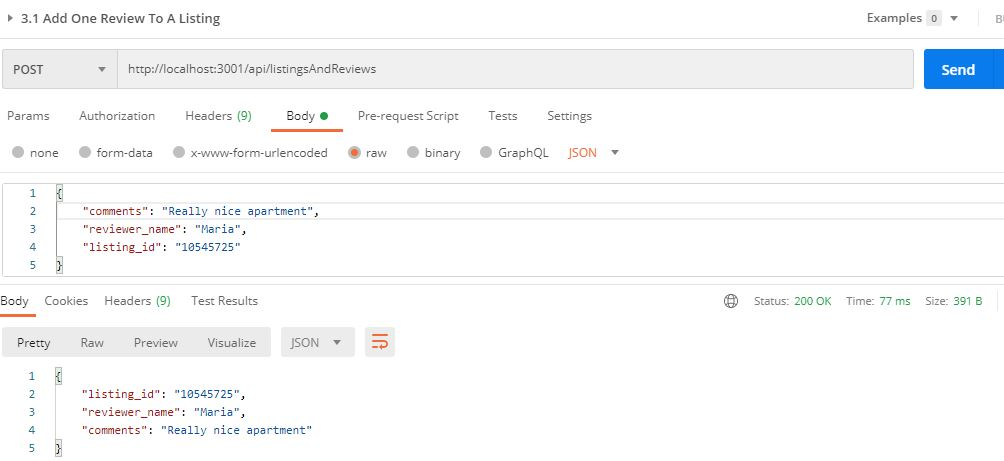
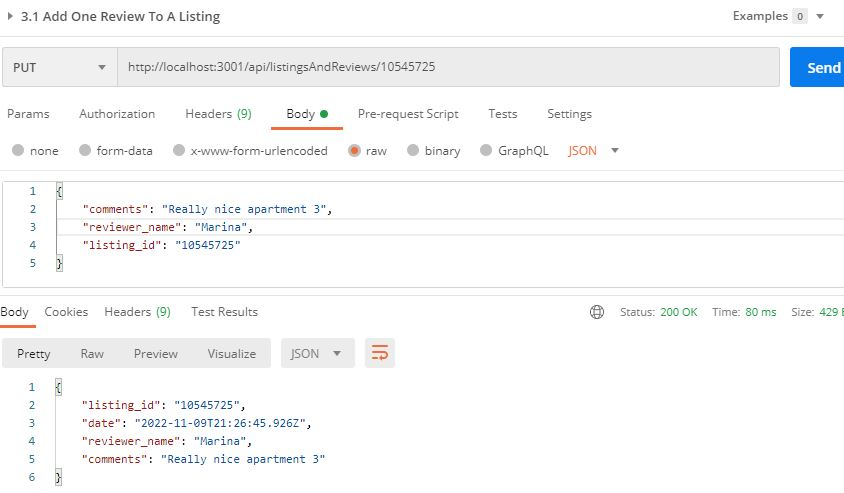
Added mongoose changes and changed readme.md

diff --git a/1.essential/src/dals/listingAndReviews/repositories/listingAndReviews.db-repository.ts b/1.essential/src/dals/listingAndReviews/repositories/listingAndReviews.db-repository.ts
@@ -1,37 +1,38 @@
 import { ListingAndReviewsRepository } from './listingAndReviews.repository';
 import { Review } from '../listingAndReviews.model';
-import { getListingAndReviewsContext } from '../listingAndReviews.context';
+import { listingAndReviewsContext } from '../listingAndReviews.context';
 
+// Due to Mongoose models provide several static helper functions, each of these functions returns mongoose query objects.
+// Using lean method to get a better performance.
 export const dbRepository: ListingAndReviewsRepository = {
   getListingAndReviewsList: async (country?: string, page?: number, pageSize?: number) => {
     const skip = Boolean(page) ? (page - 1) * pageSize : 0;
     const limit = Boolean(pageSize) ? pageSize : 0;  
     var query  = {};
     if (country !== 'undefined') query = {"address.country": country}
-    return await getListingAndReviewsContext()
+    return await listingAndReviewsContext
       .find(query)
       .skip(skip)
       .limit(limit)
-      .toArray();
+      .lean();
   },
   getListingAndReviews: async (id: string) => {
-    return await getListingAndReviewsContext().findOne({_id: id})
+    return await listingAndReviewsContext.findOne({_id: id}).lean();
   },
   insertReview: async (id: string, review: Review) => {
-    await getListingAndReviewsContext().findOneAndUpdate(
+    await listingAndReviewsContext.findOneAndUpdate(
       {
         _id: id,
         "reviews.reviewer_name":  { $ne: review.reviewer_name }
       },
-      { $push: { reviews: review } },
-       // If the value already exists in the array, $push will still append the value (resulting in duplicate values). 
+      { $push: { reviews:  { ...review } } },  
+      // If the value already exists in the array, $push will still append the value (resulting in duplicate values). 
       // However, $addToSet only appends the value if it doesn't already exist in the array. 
       // Therefore, if the value already exists, $addToSet won't append it (it will do nothing).
       { upsert: true, returnDocument: "after" }
       // upsert: true indicates to insert the new review if the filter doesn't get the match (the listing does not exist).
       // returnDocument: "after" indicates to return the document after the update, replacement, or insert occurred.
-    );
+    ).lean();
     return review;
-  },
-
+  }
 }

diff --git a/1.essential/src/dals/listingAndReviews/listingAndReviews.context.ts b/1.essential/src/dals/listingAndReviews/listingAndReviews.context.ts
@@ -1,4 +1,37 @@
-import { db } from 'core/servers';
-import { ListingAndReviews } from './listingAndReviews.model';
+import { model, Schema } from 'mongoose';
+import { ListingAndReviews, Review } from './listingAndReviews.model';
 
-export const getListingAndReviewsContext = () => db.collection<ListingAndReviews>('listingsAndReviews');
+const reviewSchema = new Schema<Review>({
+    date: { type: Schema.Types.Date, required: true },
+    reviewer_name: { type: Schema.Types.String, required: true },
+    comments: { type: Schema.Types.String, required: true },
+    listing_id: { type: Schema.Types.String, required: true }
+})
+
+const listingAndReviewSchema = new Schema<ListingAndReviews>({
+    // Note that the _id is here because is string. Otherwise Mongoose will generate it automatically if it was ObjectId.
+    _id: { type: Schema.Types.String, required: true },
+    listing_url: { type: Schema.Types.String, required: true },
+    description: { type: Schema.Types.String, required: true },
+    bedrooms: { type: Schema.Types.Number, required: true },
+    beds: { type: Schema.Types.Number, required: true },
+    bathrooms: { type: Schema.Types.Number, required: true },
+    address: {
+        street: { type: Schema.Types.String, required: true },
+        market: { type: Schema.Types.String, required: true },
+        country: { type: Schema.Types.String, required: true },
+    },
+    // reviews: [ reviewSchema ]
+    reviews: { type: Schema.Types.Mixed, required: true }
+},
+{
+    timestamps: true,
+    // Mongoose automatically looks for the plural, lowercased version of your model name
+    // So, it would create the collection `listingsandreviews`.
+    // To Resolve this, we can use a CamelCase name in the collection field
+    // Using `listingsAndReviews` to save the collection name as CamelCase
+    collection: "listingsAndReviews",
+  }
+)
+
+export const listingAndReviewsContext = model<ListingAndReviews>('listingsAndReview', listingAndReviewSchema);

diff --git a/1.essential/src/core/servers/db.server.ts b/1.essential/src/core/servers/db.server.ts
@@ -1,14 +1,5 @@
-import { MongoClient, Db } from 'mongodb';
+import { connect } from 'mongoose';
 
-export let db: Db;
-let client: MongoClient;
 export const connectToDBServer = async (connectionURI: string) => {
-  client = new MongoClient(connectionURI);
-  await client.connect();
-
-  db = client.db();
-};
-
-export const disconnectFromDBServer = async () => {
-  await client.close();
+    await connect(connectionURI);
 };

diff --git a/1.essential/src/app.ts b/1.essential/src/app.ts
@@ -1,6 +1,6 @@
 import express from 'express';
 import path from 'path';
-import { createRestApiServer, connectToDBServer, db } from 'core/servers';
+import { createRestApiServer, connectToDBServer } from 'core/servers';
 import { envConstants } from 'core/constants';
 import {
   logRequestMiddleware,

diff --git a/1.essential/README.md b/1.essential/README.md
@@ -135,18 +135,18 @@ You can find the Postman requests collection [here](Listing_And_Reviews_Rest_Api
       ![GetWrongListing](images/Postman_GetListing_Wrong.JPG)
 
 * Request to add a new review for the "10545725" listing:
-   * URL: `http://localhost:3001/api/listingsAndReviews`
+   * URL: `http://localhost:3001/api/listingsAndReviews/10545725`
    * BODY:
       ```
       {
-         "comments": "Really nice flat 13",    
-         "reviewer_name": "Maria",
+         "comments": "Really nice apartment 3",
+         "reviewer_name": "Marina",
          "listing_id": "10545725"
       }
       ```
       ![PutAddAReview](images/Postman_AddOneReview_1.JPG)
       
-      In the following picture you can see that the review has been added into 10545725 listing and it's displayed the first one because is the newest one. 
+      The date has been created automatically. In the following picture you can see that the review has been added into 10545725 listing and it's displayed the first one because is the newest one.   
       ![GetExistingListing_2](images/Postman_AddOneReview_2.JPG)
 
 Here, you can see all the requests made:
